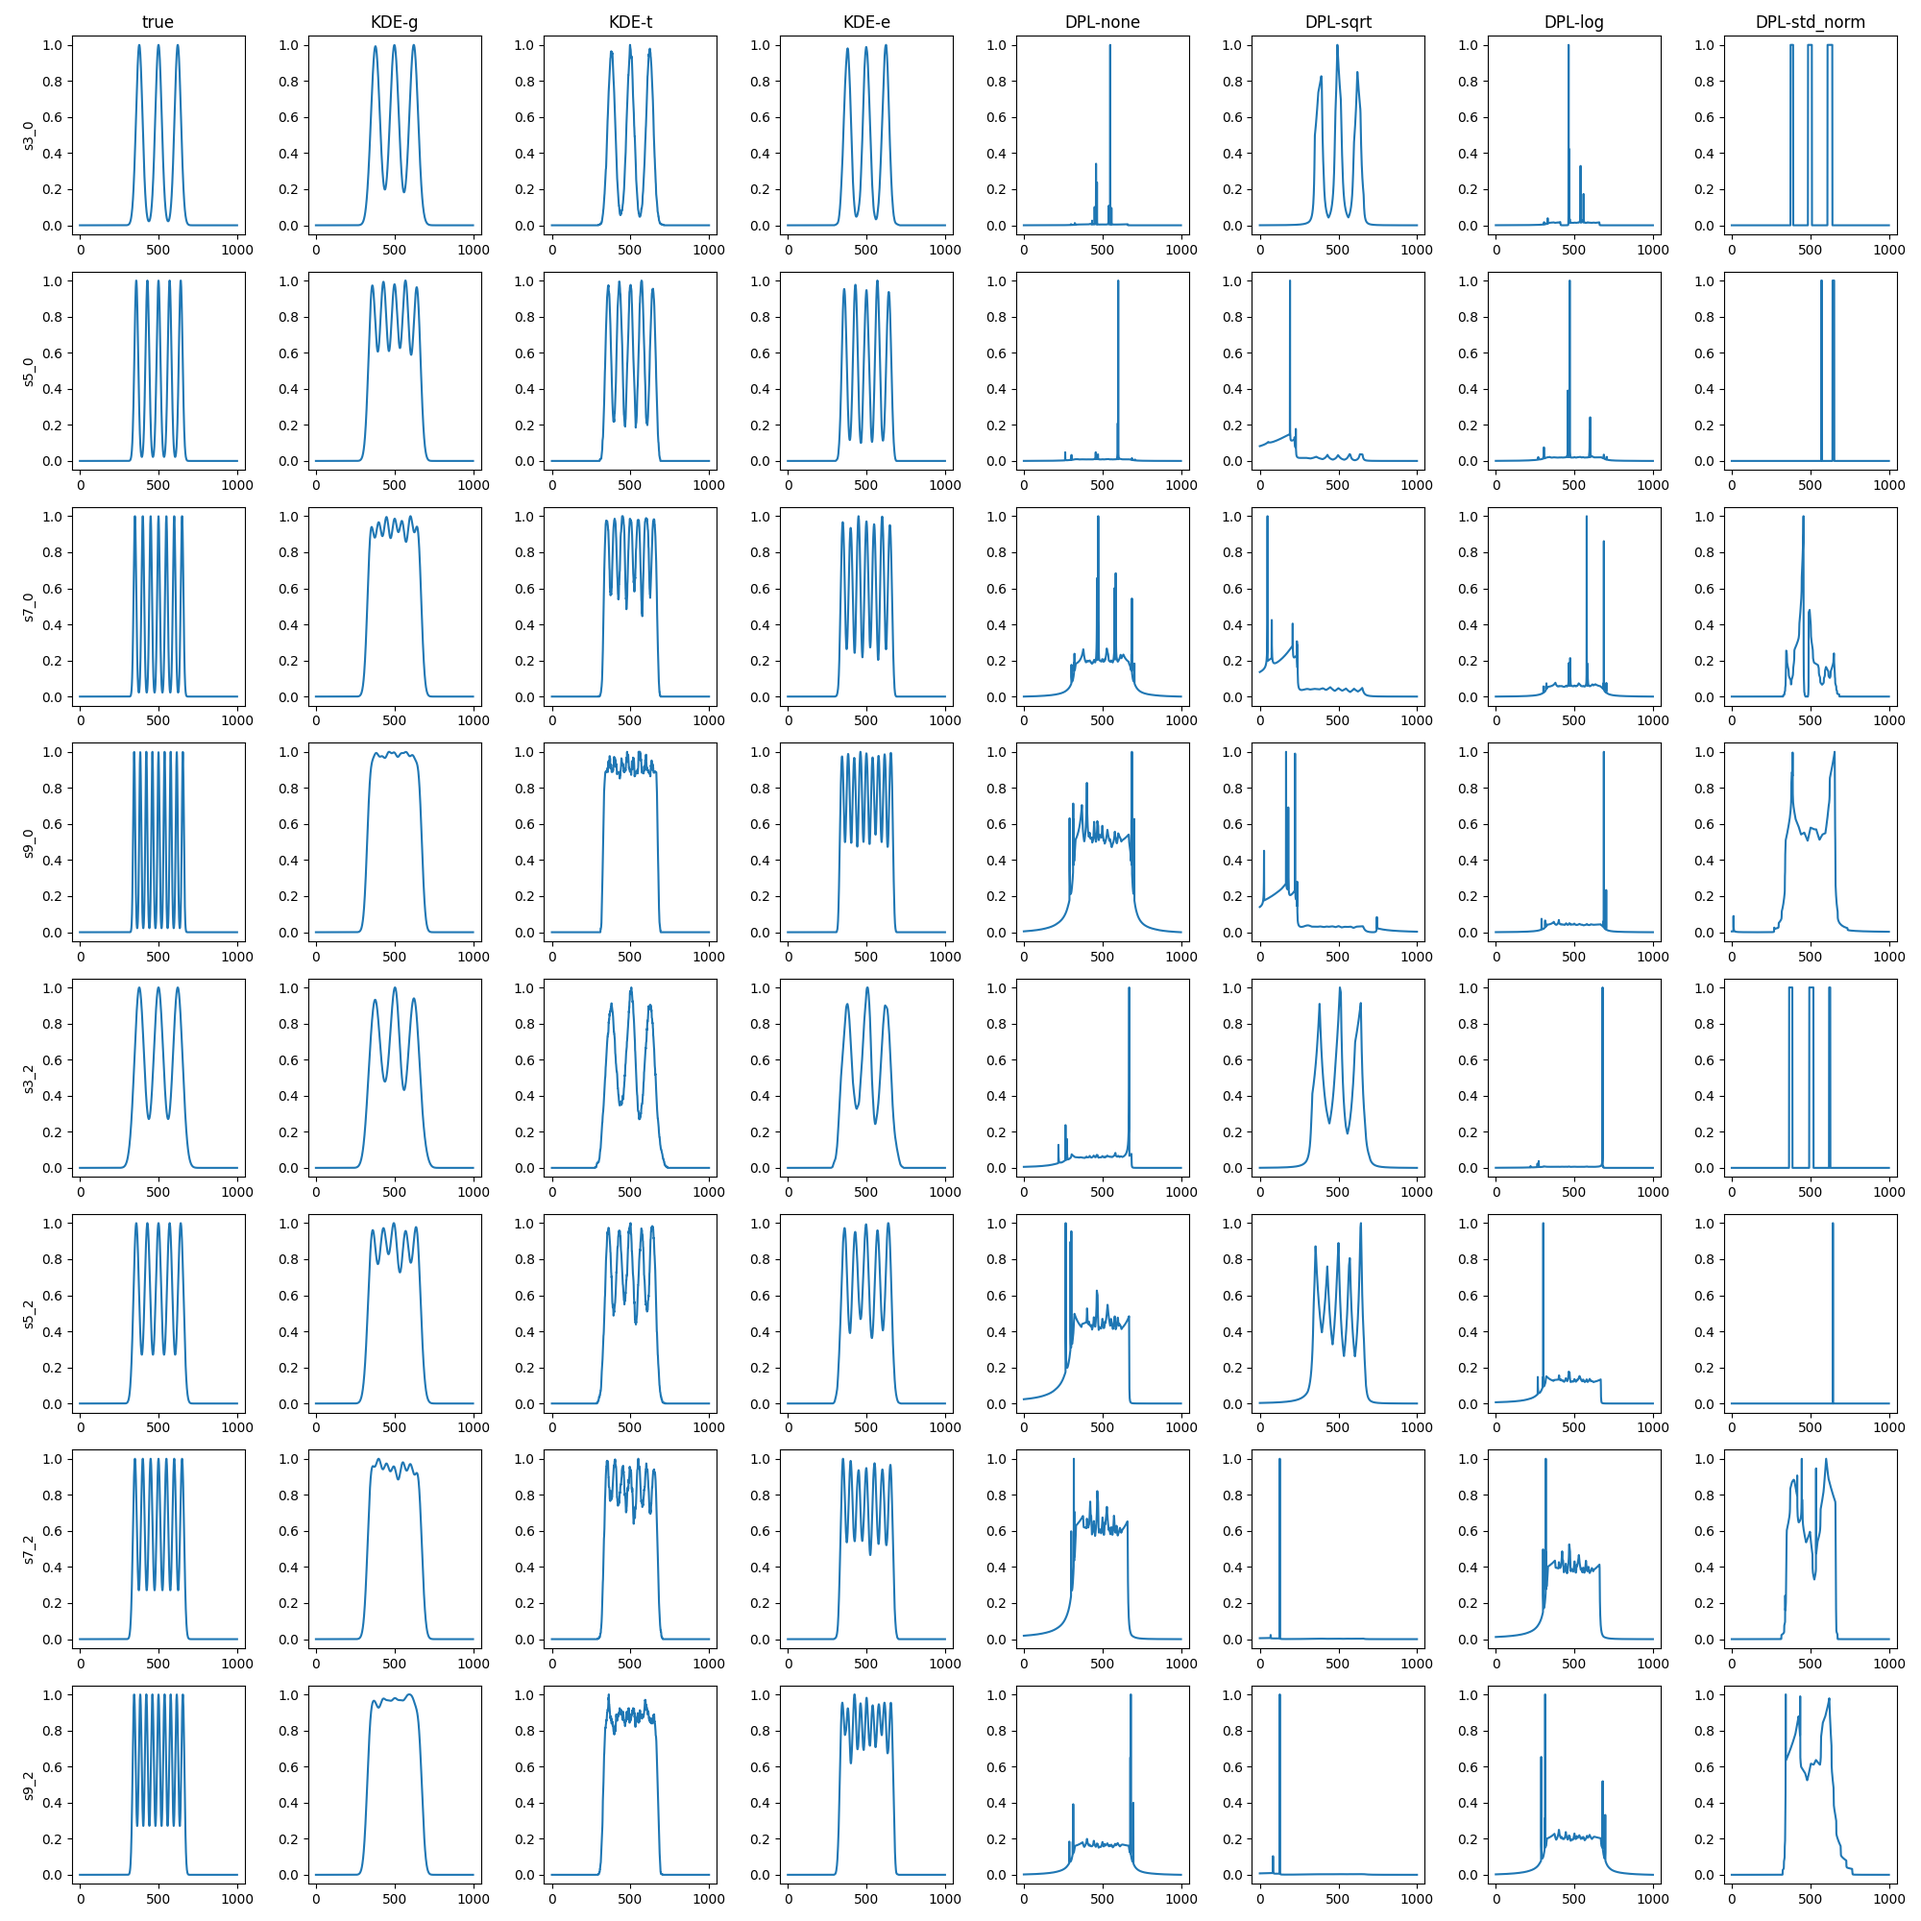
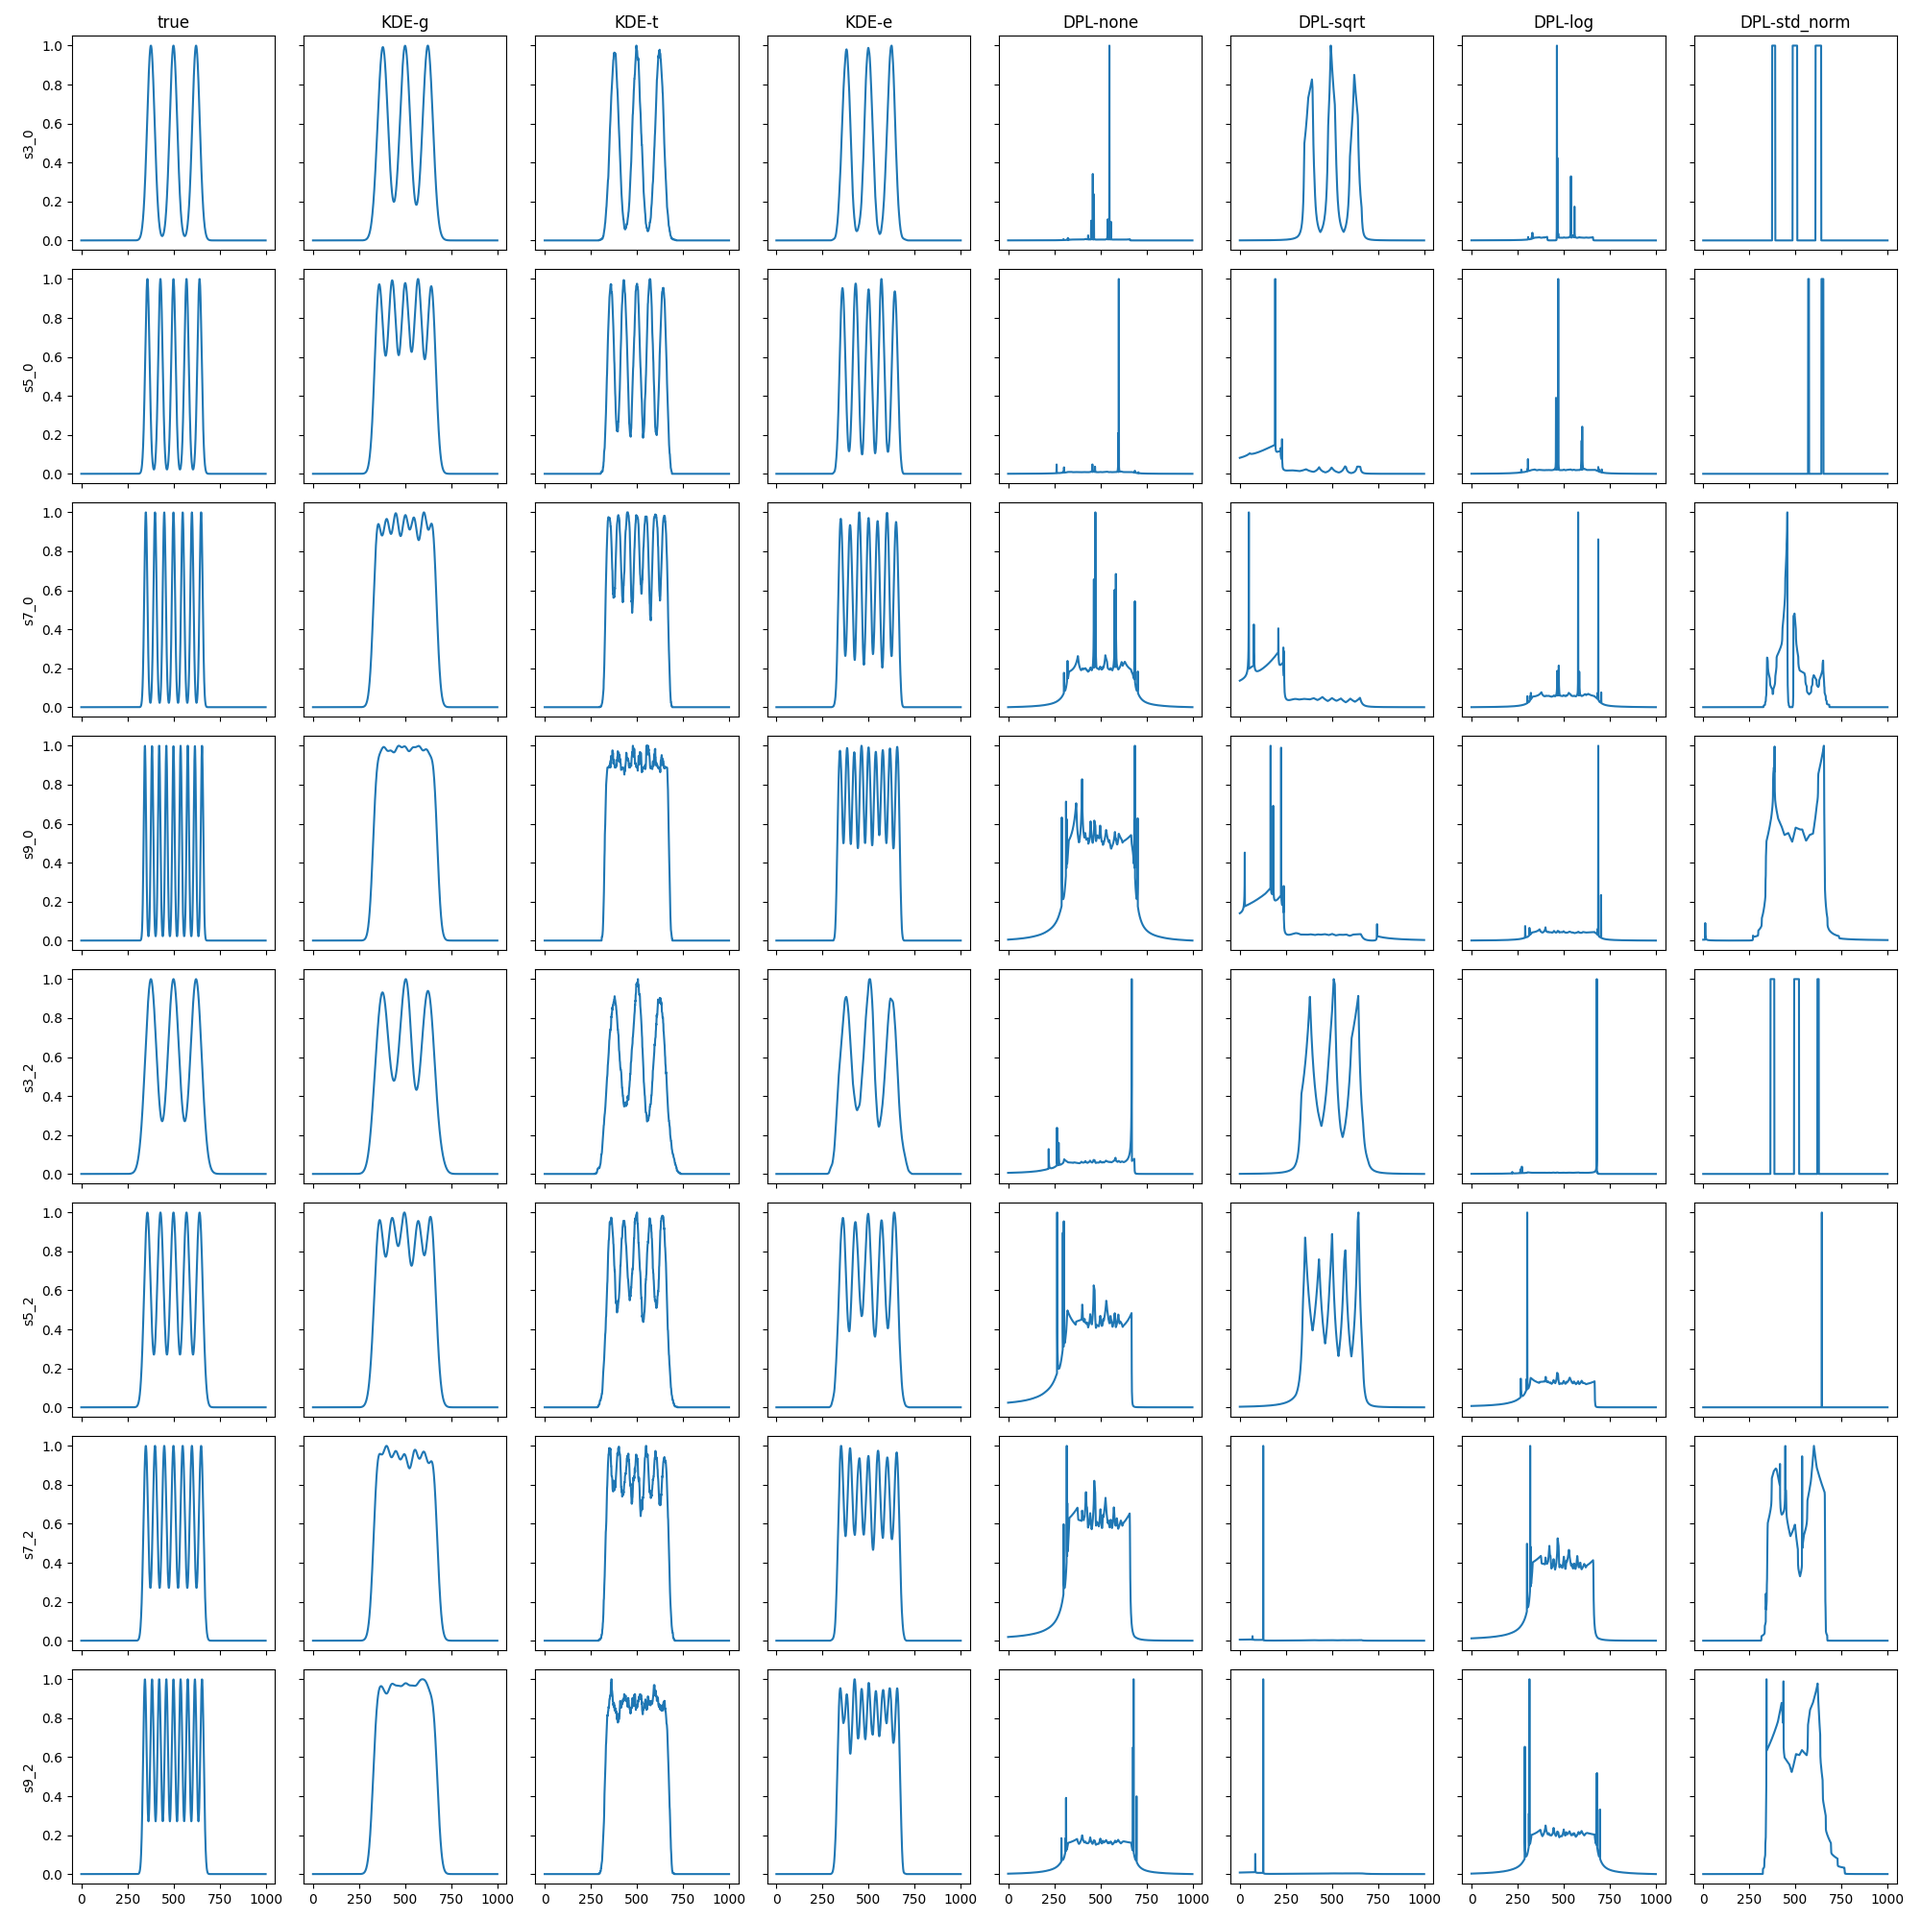
fix e1_est + fix plots

diff --git a/E1_est.py b/E1_est.py
@@ -19,7 +19,6 @@ from utils import norm_0_1, ns2pdf, snakeway
 # Data configuration
 n_samples = 1000
 factors = [1, 3, 5, 10]
-sigmas = [0.5, 1, 3, 5]
 n_centroids = [2, 3, 5, 7, 9]
 
 # Method configuration
@@ -46,15 +45,15 @@ transforms = ['none', 'sqrt', 'log', 'std_norm']
 # Experiment configuration
 test_space = np.linspace(-5,5,1000).reshape(-1, 1)
 
-res = np.zeros((len(factors), len(sigmas), len(n_centroids), 
+res = np.zeros((len(factors), len(n_centroids), 
                 len(curve_quants), len(integrators), len(base_regressors), 
                 len(transforms), n_iter, 3))
 
-res_pred = np.zeros((len(factors), len(sigmas), len(n_centroids), 
+res_pred = np.zeros((len(factors), len(n_centroids), 
                 len(curve_quants), len(integrators), len(base_regressors), 
                 len(transforms)+1, len(test_space)))
 
-pbar = tqdm(total=len(factors)*len(sigmas)*len(n_centroids)*\
+pbar = tqdm(total=len(factors)*len(n_centroids)*\
                 len(curve_quants)*len(integrators)*len(base_regressors)*\
                 len(transforms)*n_iter)
 
@@ -63,47 +62,45 @@ pbar = tqdm(total=len(factors)*len(sigmas)*len(n_centroids)*\
 # Generate data
 
 for f_id, f in enumerate(factors):
-    for s_id, s in enumerate(sigmas):
-        for n_c_id, n_c in enumerate(n_centroids):
-            
-            X, y, ns = snakeway(n_samples=n_samples,
-                                factor=f,
-                                sigma=s,
-                                n_centroids=n_c)
-            
-            spdf = ns2pdf(test_space, (ns[0], np.ones_like(ns[1]))).flatten()
-            n_spdf = norm_0_1(spdf)
-            
-            # Configure method
-            for cq_id, cq in enumerate(curve_quants):
-                for int_id, itg in enumerate(integrators):
-                    for br_id, br in enumerate(base_regressors):
-                        for t_id, t in enumerate(transforms):
+    for n_c_id, n_c in enumerate(n_centroids):
+        
+        X, y, ns = snakeway(n_samples=n_samples,
+                            factor=f,
+                            n_centroids=n_c)
+        
+        spdf = ns2pdf(test_space, (ns[0], np.ones_like(ns[1]))).flatten()
+        n_spdf = norm_0_1(spdf)
+        
+        # Configure method
+        for cq_id, cq in enumerate(curve_quants):
+            for int_id, itg in enumerate(integrators):
+                for br_id, br in enumerate(base_regressors):
+                    for t_id, t in enumerate(transforms):
+                        
+                        dpl = DPL(
+                            base_clf=clone(br),
+                            curve_quants=cq,
+                            max_iter=n_iter,
+                            monotonic=True,
+                            transform=t,
+                            integrator=clone(itg)
+                        )
+                        
+                        for i in range(n_iter):
+                            pred = dpl.partial_fit(X, y).score_samples(test_space)
                             
-                            dpl = DPL(
-                                base_clf=clone(br),
-                                curve_quants=cq,
-                                max_iter=n_iter,
-                                monotonic=True,
-                                transform=t,
-                                integrator=clone(itg)
-                            )
-                            
-                            for i in range(n_iter):
-                                pred = dpl.partial_fit(X, y).score_samples(test_space)
-                                
-                                stat, p = f_oneway(spdf, pred)
-                                res[f_id, s_id, n_c_id, cq_id, int_id, br_id, t_id, i, 0] = stat
+                            stat, p = f_oneway(spdf, pred)
+                            res[f_id, n_c_id, cq_id, int_id, br_id, t_id, i, 0] = stat
 
-                                n_pred = norm_0_1(pred)
-                                res[f_id, s_id, n_c_id, cq_id, int_id, br_id, t_id, i, 1] = mean_squared_error(n_spdf, n_pred)
-                                res[f_id, s_id, n_c_id, cq_id, int_id, br_id, t_id, i, 2] = mean_absolute_error(n_spdf, n_pred)
-                                    
-                                pbar.update(1)
+                            n_pred = norm_0_1(pred)
+                            res[f_id, n_c_id, cq_id, int_id, br_id, t_id, i, 1] = mean_squared_error(n_spdf, n_pred)
+                            res[f_id, n_c_id, cq_id, int_id, br_id, t_id, i, 2] = mean_absolute_error(n_spdf, n_pred)
                                 
-                                if i==n_iter-1:
-                                    res_pred[f_id, s_id, n_c_id, cq_id, int_id, br_id, 0] = n_spdf
-                                    res_pred[f_id, s_id, n_c_id, cq_id, int_id, br_id, t_id+1] = n_pred
-                                    
-            np.save('results/E1_est.npy', res)            
-            np.save('results/E1_est_v.npy', res_pred)
+                            pbar.update(1)
+                            
+                            if i==n_iter-1:
+                                res_pred[f_id, n_c_id, cq_id, int_id, br_id, 0] = n_spdf
+                                res_pred[f_id, n_c_id, cq_id, int_id, br_id, t_id+1] = n_pred
+                                
+        np.save('results/E1_est.npy', res)            
+        np.save('results/E1_est_v.npy', res_pred)

diff --git a/experiment_density_1d.py b/experiment_density_1d.py
@@ -151,7 +151,7 @@ else:
     res = np.load('results/res_density_1d_v.npy')
     print(res.shape)
     
-    fig, ax = plt.subplots(8,8,figsize=(20,20))
+    fig, ax = plt.subplots(8,8,figsize=(20,20), sharex=True, sharey=True)
     
     for d_id, d_name in enumerate(datasets.keys()):
         for est_id, est in enumerate(labels):

diff --git a/experiment_density_2d.py b/experiment_density_2d.py
@@ -150,7 +150,7 @@ else:
     res = np.load('results/res_density_2d_v.npy')
     print(res.shape)
     
-    fig, ax = plt.subplots(8,8,figsize=(20,20))
+    fig, ax = plt.subplots(8,8,figsize=(20,20), sharex=True, sharey=True)
     
     for d_id, d_name in enumerate(datasets.keys()):
         for est_id, est in enumerate(labels):
